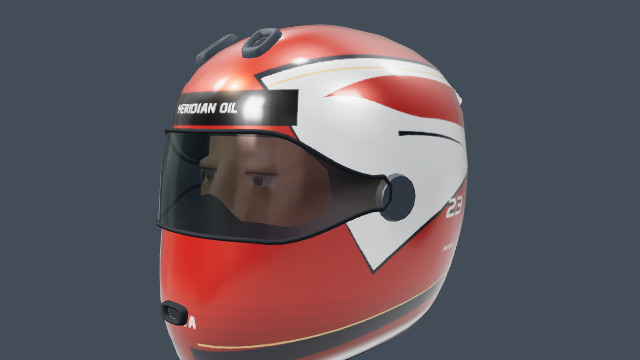
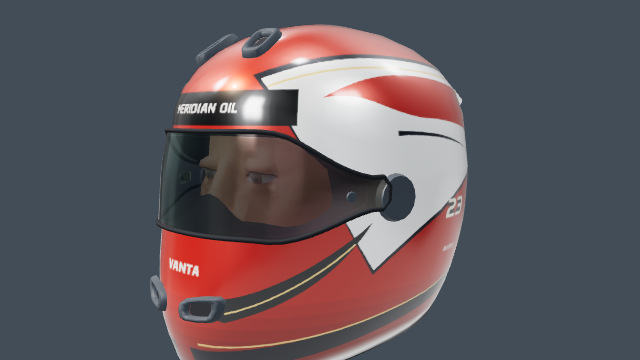
Keep GP turf at ground scale through hairpins and wear spectator paths into the bank

Changed region(s): [[0.2188, 0.6417, 0.5938, 0.9167], [0.25, 0.7028, 0.3125, 0.7639]]

diff --git a/src/rendering/ground/gp-ground.ts b/src/rendering/ground/gp-ground.ts
@@ -111,6 +111,30 @@ export function installGpGravel(material: T.MeshStandardMaterial, landform = 'hi
 export function installGpTurf(material: T.MeshStandardMaterial) {
   const G = GP_TURF;
   return chainShaderHook(material, 'gp-turf-v1', (shader) => {
+    injectDeclarations(shader, 'common',
+      'attribute vec4 gpBankWalkway; varying vec4 vGpBankWalkway;', 'vertex');
+    injectAfter(shader, 'begin_vertex', 'vGpBankWalkway = gpBankWalkway;', 'vertex');
+    injectDeclarations(shader, 'common', 'varying vec4 vGpBankWalkway;', 'fragment');
+    // Across the infield of a hairpin, the nearest station can jump to the
+    // opposite straight or stay constant along an entire triangle. Retain
+    // that station for racing infrastructure. Tile the grass in world metres.
+    injectAfter(shader, 'uv_vertex', `
+      #if defined(USE_MAP) || defined(USE_BUMPMAP) || defined(USE_ROUGHNESSMAP) || defined(USE_NORMALMAP)
+        vec3 gpTurfUv = vec3((modelMatrix * vec4(position, 1.)).xz * .2, 1.);
+        #ifdef USE_MAP
+          vMapUv = (mapTransform * gpTurfUv).xy;
+        #endif
+        #ifdef USE_BUMPMAP
+          vBumpMapUv = (bumpMapTransform * gpTurfUv).xy;
+        #endif
+        #ifdef USE_ROUGHNESSMAP
+          vRoughnessMapUv = (roughnessMapTransform * gpTurfUv).xy;
+        #endif
+        #ifdef USE_NORMALMAP
+          vNormalMapUv = (normalMapTransform * gpTurfUv).xy;
+        #endif
+      #endif
+    `, 'vertex');
     injectAfter(
       shader,
       'color_fragment',
@@ -123,6 +147,27 @@ export function installGpTurf(material: T.MeshStandardMaterial) {
 	diffuseColor.rgb = mix( diffuseColor.rgb, diffuseColor.rgb * ${v3(G.dryTint)}, turfDry * 0.6 );
 	float turfLush = smoothstep( 0.6, 0.85, finishFilteredNoise( vFinishWorld.xz / ${f(G.lushScale)} + vec2( 4.4, 6.2 ) ) );
 	diffuseColor.rgb *= 1.0 - ${f(G.lushDarkening)} * turfLush;
+	// The bank mesh carries its dimensions. Ordinary verges have zero in Z.
+	if (vGpBankWalkway.z > 0.) {
+		vec2 p = vGpBankWalkway.xy;
+		float width = vGpBankWalkway.z, lengthZ = vGpBankWalkway.w;
+		float ruffle = .36 * (finishFilteredNoise(vFinishWorld.xz / .83) - .5);
+		float crossPath = abs(p.y - 3. - .24 * sin(.36 * p.x)) + ruffle;
+		float servicePath = abs(p.x - .55 * width - .22 * sin(.17 * p.y)) + ruffle;
+		float crossReach = smoothstep(-.96 * width, -.76 * width, p.x)
+			* (1. - smoothstep(.60 * width, .88 * width, p.x));
+		float serviceReach = 1. - smoothstep(.72 * lengthZ, .94 * lengthZ, abs(p.y));
+		float traffic = max((1. - smoothstep(.26, 1.32, crossPath)) * crossReach,
+			(1. - smoothstep(.19, 1.05, servicePath)) * serviceReach);
+		float clods = finishFilteredNoise(vFinishWorld.xz / .14);
+		float grass = smoothstep(.30, .75, clods + .46 * (1. - traffic));
+		// Flattened stems remain along the edges. The core exposes mineral
+		// soil between surviving tufts. All three receive the turf lighting.
+		vec3 straw = turfLuma * vec3(1.19, .96, .59);
+		vec3 soil = turfLuma * vec3(.84, .63, .42) * (.79 + .38 * clods);
+		vec3 worn = mix(soil, straw, .28 + .57 * grass);
+		diffuseColor.rgb = mix(diffuseColor.rgb, worn, traffic * (.70 + .26 * (1. - grass)));
+	}
 }`,
       'fragment',
     );

diff --git a/src/rendering/venue-kit/gp-spectator-banks.ts b/src/rendering/venue-kit/gp-spectator-banks.ts
@@ -18,6 +18,7 @@ export function gpBankSurface(track: Track, site: GpSpectatorBank) {
     stride = cols + 1,
     pos: number[] = [],
     uv: number[] = [],
+    walkway: number[] = [],
     edge: number[] = [],
     inset: number[] = [],
     index: number[] = [];
@@ -39,6 +40,9 @@ export function gpBankSurface(track: Track, site: GpSpectatorBank) {
         T.MathUtils.smoothstep(across, 0, 0.66) * (1 - T.MathUtils.smoothstep(across, 0.74, 1));
       const y = terrain(near.s, l, wx, wz) - 0.17 + site.rise * end * profile;
       pos.push(x, y, z);
+      // Local metres and half-extents locate the opening between groups
+      // and the service aisle behind the fourth row on either side of a track.
+      walkway.push(site.side * x, z, site.width * 0.5, site.length * 0.5);
       // The venue turf uses the same lateral/station UVs as the adjacent verge.
       // Carry distance to the road so its soil band and floodlight rows stay
       // at the ribbon. Keep UVs continuous across the timing-line seam.
@@ -61,6 +65,7 @@ export function gpBankSurface(track: Track, site: GpSpectatorBank) {
   const geometry = new T.BufferGeometry();
   geometry.setAttribute('position', new T.Float32BufferAttribute(pos, 3));
   geometry.setAttribute('uv', new T.Float32BufferAttribute(uv, 2));
+  geometry.setAttribute('gpBankWalkway', new T.Float32BufferAttribute(walkway, 4));
   geometry.setAttribute('edgeMetres', new T.Float32BufferAttribute(edge, 1));
   geometry.setAttribute('gpVergeInset', new T.Float32BufferAttribute(inset, 1));
   geometry.setIndex(index);

diff --git a/e2e/fixtures/gp-viewing-bank.ts b/e2e/fixtures/gp-viewing-bank.ts
@@ -173,6 +173,18 @@ export async function captureGpViewingBank() {
     meadow.root.visible = false;
     const cut = snap('cape-wrenna-mown-control');
     meadow.root.visible = true;
+    const crossing = .275 * site.width * site.side, aisleZ = 3;
+    const aisle = at(crossing, surface.height(crossing, aisleZ), aisleZ);
+    camera.position.copy(at(-.3 * site.width * site.side, aisle.y + 12, aisleZ + 14));
+    camera.lookAt(aisle);
+    const worn = snap('cape-wrenna-bank-footpaths');
+    const turf = land.getObjectByName('GP viewing bank turf') as T.Mesh<T.BufferGeometry>;
+    const path = turf.geometry.getAttribute('gpBankWalkway');
+    // An ordinary verge shares the turf program and has no bank attribute.
+    turf.geometry.deleteAttribute('gpBankWalkway');
+    const unwalked = snap('cape-wrenna-unwalked-turf');
+    turf.geometry.setAttribute('gpBankWalkway', path);
+    const wornAgain = snap('cape-wrenna-bank-footpaths-restored');
     const target = sock.getWorldPosition(new T.Vector3());
     camera.position.copy(target).add(new T.Vector3(-4.1, 2.6, 6));
     camera.lookAt(target.clone().add(new T.Vector3(0, -0.65, 0)));
@@ -187,6 +199,8 @@ export async function captureGpViewingBank() {
       captures: shots,
       meadowClumps: meadow.clumps,
       meadowPixels: difference(planted, cut),
+      pathPixels: difference(worn, unwalked),
+      pathRestore: difference(worn, wornAgain),
       windPixels: difference(east, west),
       lullPixels: difference(east, calm),
       windRestore: difference(east, rewind),

diff --git a/tests/gp-spectator-banks.test.ts b/tests/gp-spectator-banks.test.ts
@@ -85,13 +85,18 @@ describe('GP general-admission viewing banks', () => {
           }
           expect(gpBankGrass({ site, height }, 8, 4, 0.3)).toEqual(meadow);
           const positions = geometry.getAttribute('position'),
-            normals = geometry.getAttribute('normal');
+            normals = geometry.getAttribute('normal'),
+            walkway = geometry.getAttribute('gpBankWalkway');
           expect(inGpSpectatorBank(sites, site.x, site.z, 0)).toBe(true);
           for (let i = 0; i < positions.count; i++) {
             const x = positions.getX(i),
               z = positions.getZ(i),
               wx = site.x + c * x + n * z,
               wz = site.z - n * x + c * z;
+            expect(walkway.getX(i)).toBeCloseTo(site.side * x, 5);
+            expect(walkway.getY(i)).toBeCloseTo(z, 5);
+            expect(walkway.getZ(i)).toBeCloseTo(site.width / 2, 5);
+            expect(walkway.getW(i)).toBeCloseTo(site.length / 2, 5);
             const l = track.nearest(wx, wz, near);
             const uv = geometry.getAttribute('uv');
             expect(uv.getX(i) * 5).toBeCloseTo(l, 2);

diff --git a/tests/gp-venue-surfaces.test.ts b/tests/gp-venue-surfaces.test.ts
@@ -168,6 +168,11 @@ describe('GP verge turf and gravel', () => {
     expect(f.indexOf('vGravelCover < 0.999')).toBeLessThan(f.indexOf('discard'));
     expect(compile(gp.ground).fragmentShader).toContain(GP_TURF.saturation.toFixed(4));
     expect(compile(gp.ground).vertexShader).toContain('edgeMetres + gpVergeInset');
+    const turfVertex = compile(gp.ground).vertexShader;
+    expect(turfVertex.indexOf('vec3 gpTurfUv')).toBeGreaterThan(turfVertex.indexOf('#include <uv_vertex>'));
+    for (const channel of ['map', 'bumpMap', 'roughnessMap', 'normalMap'])
+      expect(turfVertex).toContain(`(${channel}Transform * gpTurfUv).xy`);
+    expect(compile(plain.ground).vertexShader).not.toContain('gpTurfUv');
     expect(compile(plain.ground).vertexShader).not.toContain('gpVergeInset');
     expect(GP_GRAVEL.tint[0]).toBeGreaterThan(1);
   });

diff --git a/e2e/gp-fan-silhouettes.spec.ts b/e2e/gp-fan-silhouettes.spec.ts
@@ -77,6 +77,8 @@ test('GP distance fans retain the standing and seated sculpt silhouettes in two 
   expect(wind.windRestore).toBe(0);
   expect(wind.meadowClumps).toBeGreaterThan(80);
   expect(wind.meadowPixels).toBeGreaterThan(40);
+  expect(wind.pathPixels).toBeGreaterThan(300);
+  expect(wind.pathRestore).toBe(0);
   expect(wind.umbrellas).toBeGreaterThan(1);
   expect(wind.canopyPixels).toBeGreaterThan(120);
   expect(wind.canopyHeld).toBe(0);

diff --git a/docs/production/motogp-circuit-race-review/README.md b/docs/production/motogp-circuit-race-review/README.md
@@ -28,6 +28,10 @@ The 102-link chain took a median 9.63 µs per update after the two side plates b
 
 At Haarveld, closed concrete risers support the seats and three shallow steps connect each pair of rows in the aisles. At Cape Wrenna, four umbrellas on the first bank unfold in a shower and follow the wind. Holding the weather or rewinding to dry reproduced the original pixels. In a separate shadow measurement at race shadow-map density, the 10–90% edge width below an eight-metre canopy grew from 5 cm in sun to 14 cm under thin cloud and 30.5 cm in a shower. A plate eight centimetres above the road kept its 5 cm edge in all three conditions.
 
+![Matching overhead cameras show stretched grass in the earlier Cape Wrenna bank and continuous turf and worn walkways in the revised frame](cape-wrenna-turf.jpg)
+
+Fans reach the standing rows through the central opening and a service aisle behind the fourth row. Flattened stems give way to exposed earth along those routes. The two images use identical foot traffic and lighting. Earlier grass textures followed the nearest racing station, which stretched the pattern by up to 52.7 times on this bank. Sampling the grass in world metres keeps blades at a consistent scale. Floodlights and edge markings still follow the surveyed course.
+
 ## Circuit cameras
 
 ![Aurel race broadcast with the GP-R1 at 149 km/h and several riders on the main straight](aurel-live-race.jpg)
@@ -93,7 +97,7 @@ The GP-R1 is travelling at 161 km/h in both shots, 12.5 seconds into the same dr
 
 These close-ups use the game meshes under controlled lighting. The brake pose sets the same inputs as the riding renderer. The dashboard capture shows 15,200 RPM. The temperature, lean, speed and gear channels use the live instrument code. A held or rewound frame restores the instrument, rider gaze, leather folds and optical state.
 
-Behind the tinted visor, the brow and temple pads shade the rider’s skin. The wet surface of the eye reflects the lamps at the circuit. In an 86-pixel-wide crop of one eye, moving the test lamp from left to right shifted the centre of the brightest pixels by 74 pixels. Turning off all light reduced the brightest sample from the former 32/255 to black. The helmet, lens and padding rendered identically with the face hidden.
+Behind the tinted visor, the brow and temple pads shade the rider’s skin. The wet surface of the eye reflects the lamps at the circuit. In an 86-pixel-wide crop of one eye, moving the test lamp from left to right shifted the centre of the brightest pixels by 65 pixels. Turning off all light reduced the brightest sample to black. Repeating the left lamp position reproduced its original pixels.
 
 ## Spectators and wind
 
